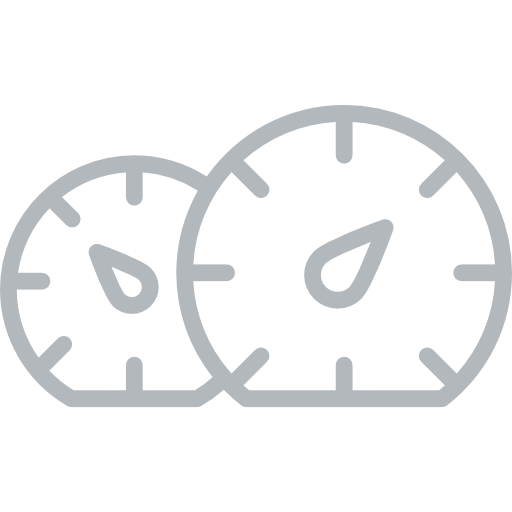
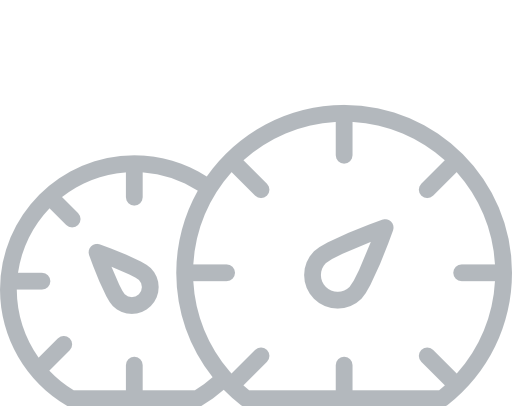
Add background on .contentOne

Changed region(s): [[0.0, 0.2069, 1.0, 1.0]]

diff --git a/index.html b/index.html
@@ -67,24 +67,19 @@
       <div class="contentOne container-fluid">
         <!-- <div class="content-emty container-fluid"></div> -->
         <div class="row">
-          <div class="contentOne-imgBlock col-lg-4 col-md-12">
+          <div class="contentOne-imgBlock col-md col-sm-12">
             <img class="contentOne-imgWoman" src="/img/Mechanics-woman.jpg" alt="Image">
           </div>
-          <div class="contentOne-textBlock col-lg-8 col-md-12">
+          <div class="hidden-col-md-2-up"></div>
+          <div class="contentOne-textBlock col-md">
             <p>Каменский и Ко - это команда профессионалов с многолетним опытом работы.
               Наши специалисты проведут полную диагностику транспортного средства и замену
-              вышедших из строя деталей.
-            </p>
-            <p>
-              Благодаря индивидуальному подходу к каждому клиенту у нас сформировалась своя
-              база постоянных клиентов, приезжающих на ТО.
-            </p>
-            <p>
-              Совершенно бесплатно вы можете приехать и проконсультироваться по техническим
+              вышедших из строя деталей. Благодаря индивидуальному подходу к каждому клиенту у нас сформировалась своя
+              база постоянных клиентов, приезжающих на ТО. Совершенно бесплатно вы можете приехать и проконсультироваться по техническим
               вопросам.
             </p>
-
           </div>
+          <div class="hidden-md-2-up"></div>
         </div>
       </div>
     </div>

diff --git a/css/main.css b/css/main.css
@@ -126,7 +126,12 @@ body {
   position: relative;
   z-index: 1;
   border: 1px solid #47b351 white;
-  background-color: white; }
+  background-color: white;
+  background-image: url("/img/dashboard.png");
+  background-repeat: no-repeat;
+  background-position: right;
+  -webkit-background-size: contain;
+          background-size: contain; }
   .contentOne .content-emty {
     height: 100px; }
   .contentOne .contentOne-imgBlock {
@@ -136,6 +141,11 @@ body {
     padding-bottom: 20px; }
   .contentOne .contentOne-imgWoman {
     width: 70%; }
+  .contentOne .contentOne-bgimage {
+    width: 50%;
+    position: absolute;
+    bottom: 0px;
+    right: 0px; }
   .contentOne .contentOne-textBlock {
     padding-top: 20px;
     padding-bottom: 20px; }

diff --git a/sass/main.sass b/sass/main.sass
@@ -122,6 +122,12 @@ body
   // height: $coh;
   border: 1px solid $borderColor;
   background-color: $coc;
+  background-image: url("/img/dashboard.png");
+  background-repeat: no-repeat;
+  background-position: right;
+  background-size: contain;
+
+
   .content-emty
     height: 100px;
   .contentOne-imgBlock
@@ -133,6 +139,11 @@ body
     // float: right;
     width: 70%;
     // min-width: 50%;
+  .contentOne-bgimage
+    width: 50%;
+    position: absolute;
+    bottom: 0px;
+    right: 0px;
   .contentOne-textBlock
     // margin-left: 20px;
     padding-top: 20px;
